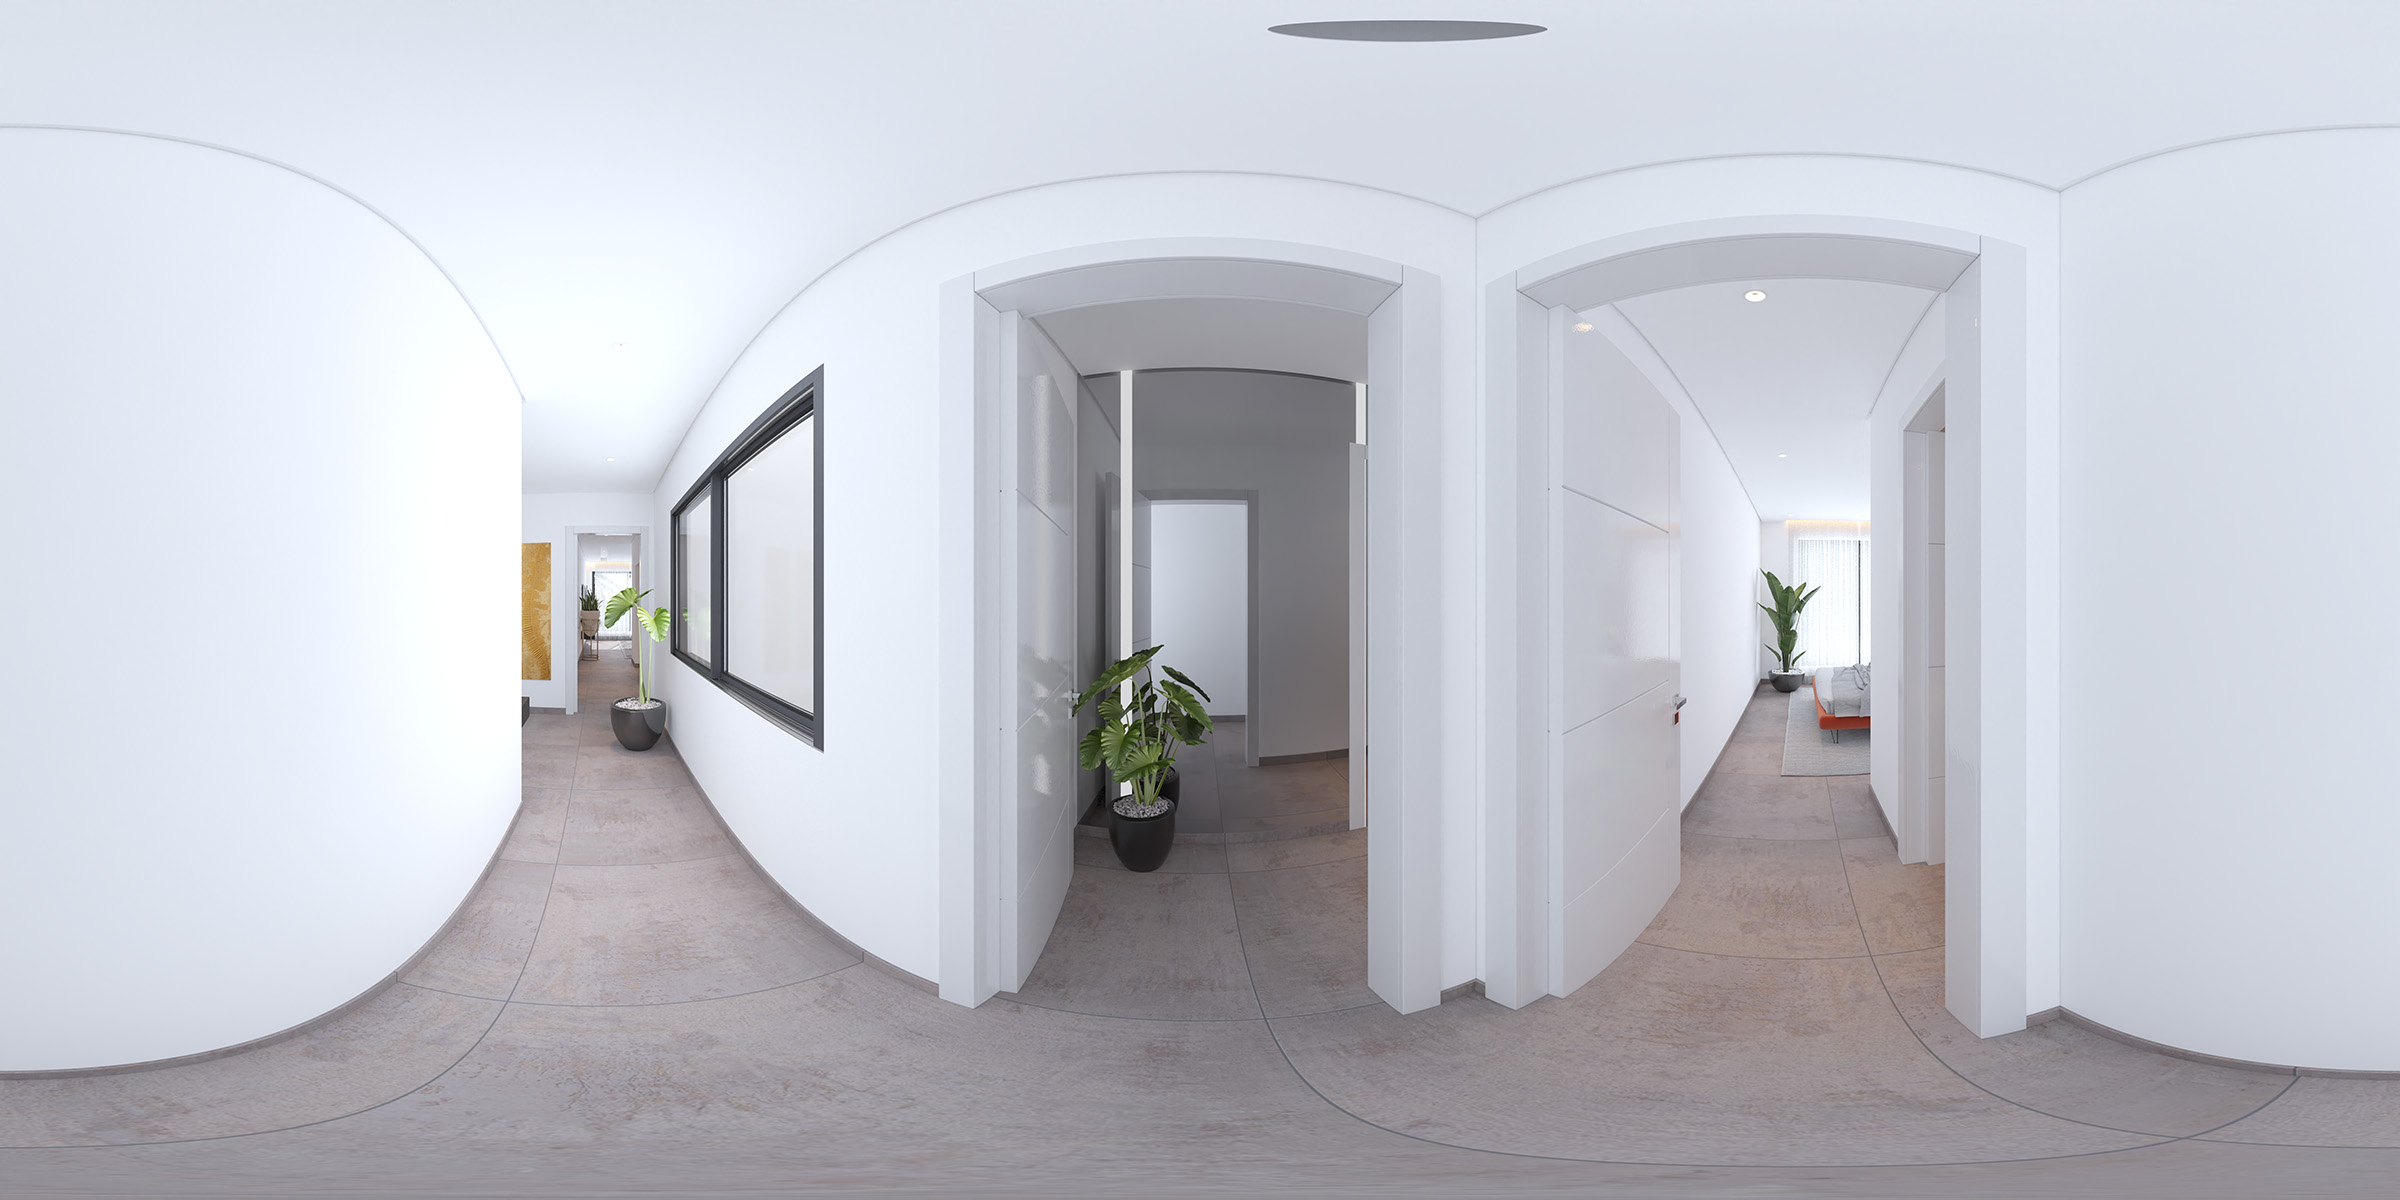
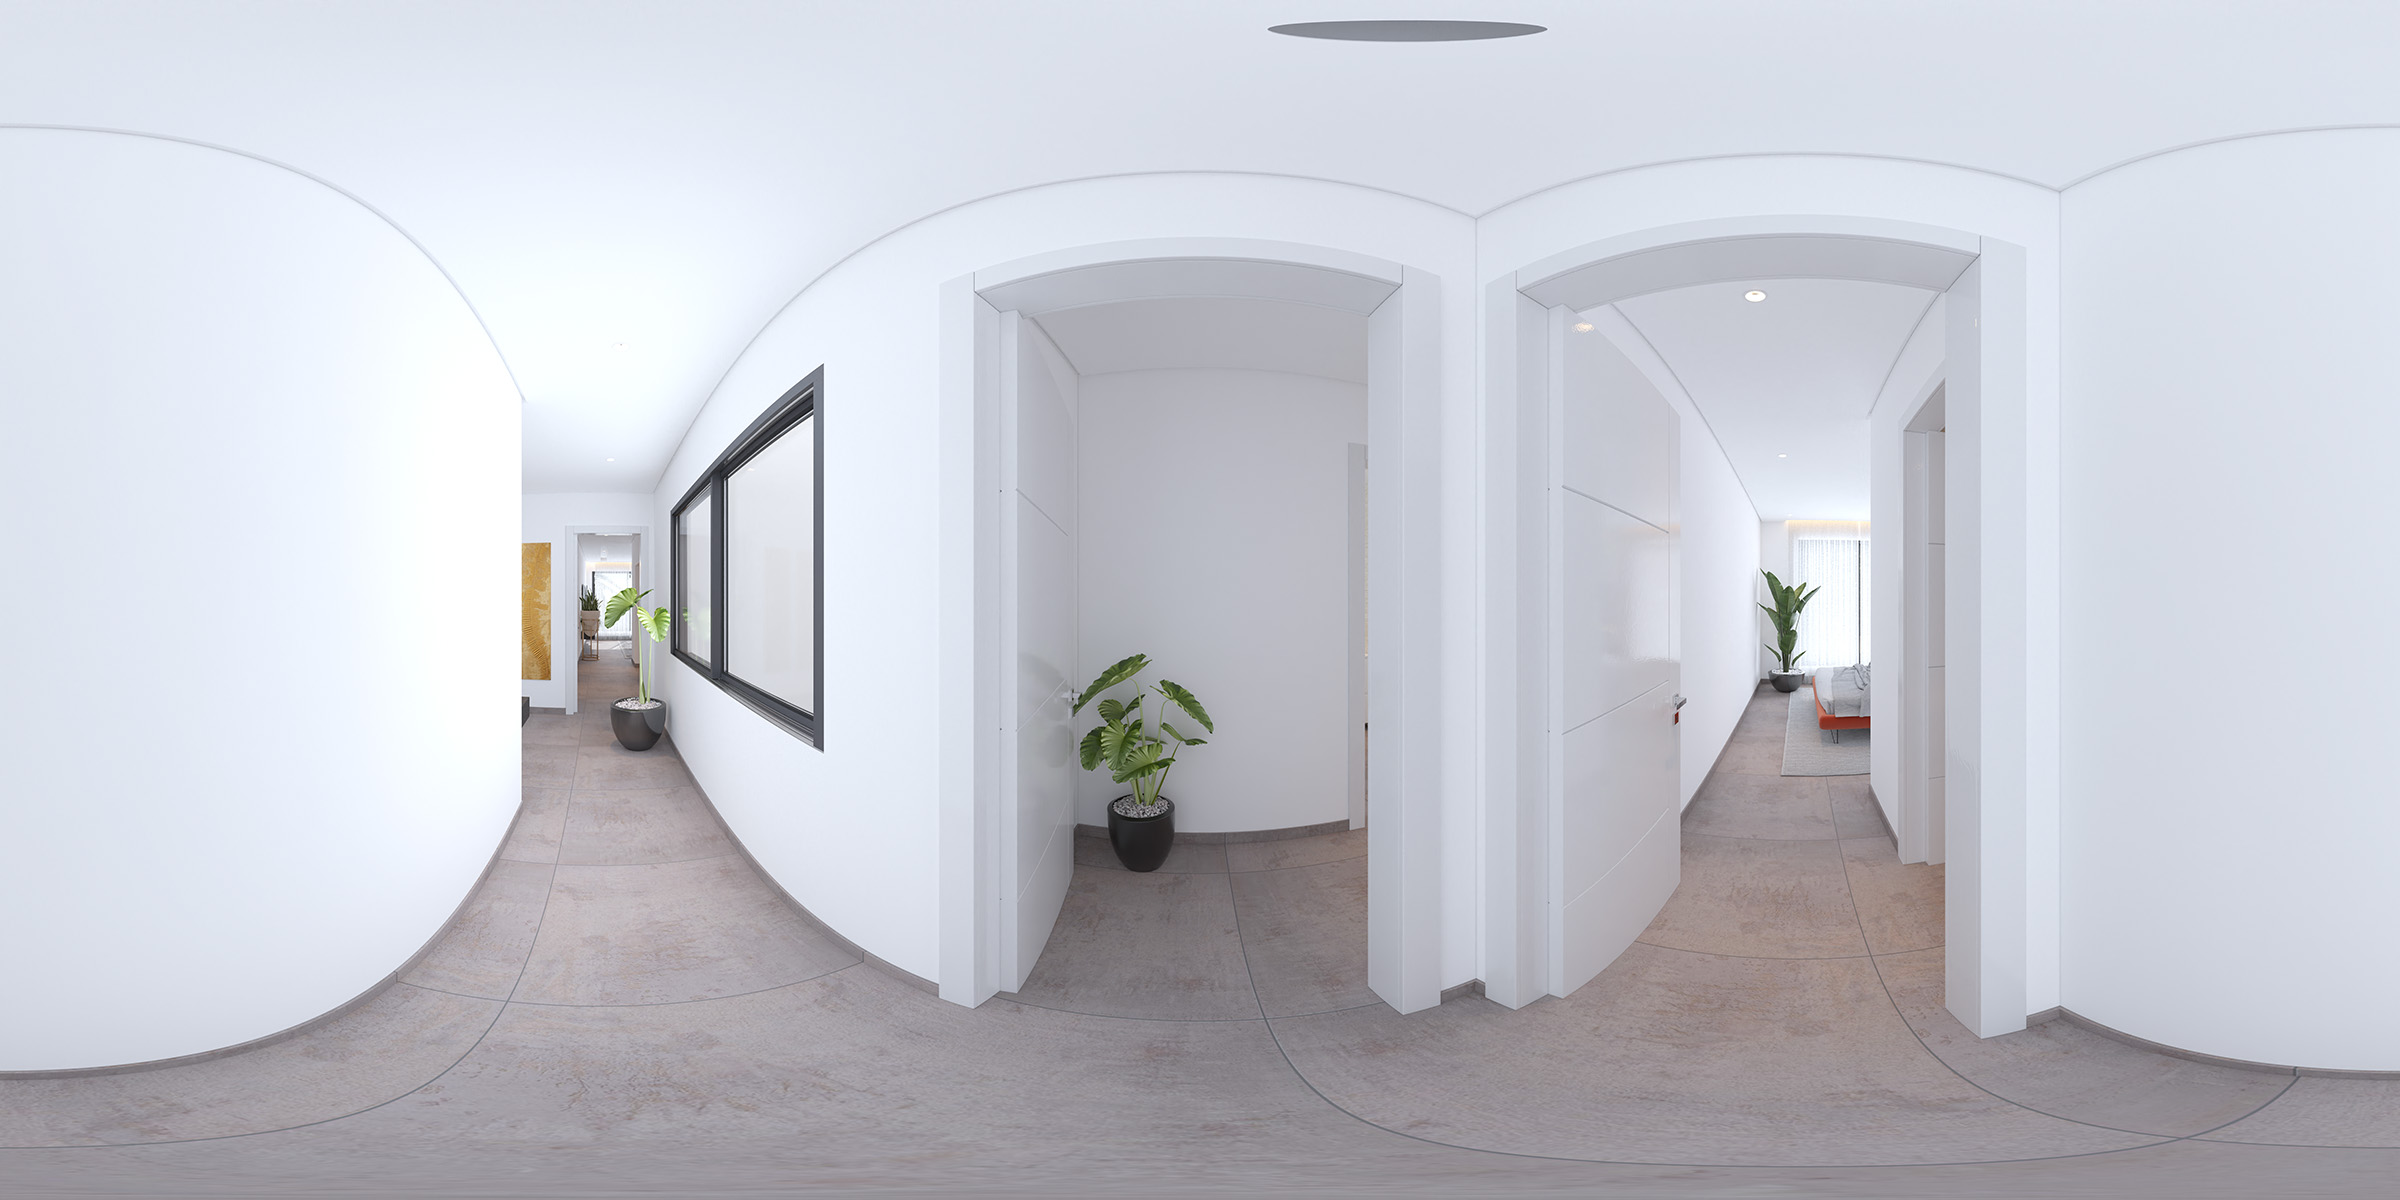
add new image-11

Changed region(s): [[0.4375, 0.2775, 0.5938, 0.7092]]

diff --git a/index.html b/index.html
@@ -70,6 +70,7 @@
             <img id="Scene-20" src="./Style/Images/Scene-20.jpg">
             <img id="Scene-21" src="./Style/Images/Scene-21.jpg">
             <img id="Scene-22" src="./Style/Images/Scene-22.jpg">
+            <img id="Scene-23" src="./Style/Images/Scene-23.jpg">
         </a-assets>
 
         <a-entity laser-controls="hand: left"
@@ -122,8 +123,6 @@
                 the_dote="Name_of_dote: Dote-13 ; Group_to_activate: Group-13 ; The_rotation: 0">
             </a-plane>
 
-
-
         </a-entity>
         <!-- Group-2. -->
         <a-entity scale="0 0 0" rotation="0 -90 0" class="groups" id="Group-2" visible="false">
@@ -133,7 +132,6 @@
                 material="src: #Arrow-1; transparent:true"
                 the_dote="Name_of_dote: Dote-0  ; Group_to_activate: Group-0 ; The_rotation: 0">
             </a-plane>
-
 
             <a-plane data-clickable scale='0.9 0.9 0.9' opacity='.5' class="pintings clickable"
                 position="-0.01334 -1.27619 -4.44077"
@@ -156,8 +154,6 @@
                 material="src: #Arrow-1; transparent:true"
                 the_dote="Name_of_dote: Dote-4  ; Group_to_activate: Group-4 ; The_rotation: 0">
             </a-plane>
-
-
 
         </a-entity>
         <!-- Group-4. -->
@@ -196,7 +192,6 @@
                 the_dote="Name_of_dote: Dote-7  ; Group_to_activate: Group-7 ; The_rotation: 0">
             </a-plane>
 
-
         </a-entity>
         <!-- Group-6 -->
         <a-entity scale="0 0 0" rotation="0 -90 0" class="groups" id="Group-6" visible="false">
@@ -212,7 +207,6 @@
                 material="src: #Arrow-1; transparent:true"
                 the_dote="Name_of_dote: Dote-9  ; Group_to_activate: Group-9 ; The_rotation: 0">
             </a-plane>
-
 
         </a-entity>
 
@@ -267,7 +261,6 @@
                 the_dote="Name_of_dote: Dote-9 ; Group_to_activate: Group-9 ; The_rotation: 0">
             </a-plane>
 
-
             <a-plane data-clickable scale='0.9 0.9 0.9' opacity='.5' class="pintings clickable"
                 position="0.3819 -1.02214 -4.1374" rotation="-85.78438700257712 -56.38477661882431 -33.06825914597547"
                 material="src: #Arrow-1; transparent:true"
@@ -290,8 +283,6 @@
                 the_dote="Name_of_dote: Dote-12; Group_to_activate: Group-12; The_rotation: 0">
             </a-plane>
 
-
-
         </a-entity>
         <!-- Group-12 -->
         <a-entity scale="0 0 0" rotation="0 -90 0" class="groups" id="Group-12" visible="false">
@@ -308,7 +299,6 @@
             </a-plane>
 
         </a-entity>
-
         <!-- Group-13 -->
         <a-entity scale="0 0 0" rotation="0 -90 0" class="groups" id="Group-13" visible="false">
 
@@ -330,10 +320,6 @@
                 the_dote="Name_of_dote: Dote-21; Group_to_activate: Group-21; The_rotation: 0">
             </a-plane>
 
-
-
-
-
         </a-entity>
         <!-- Group-14 -->
         <a-entity scale="0 0 0" rotation="0 -90 0" class="groups" id="Group-14" visible="false">
@@ -349,17 +335,11 @@
                 the_dote="Name_of_dote: Dote-15; Group_to_activate: Group-15; The_rotation: 0">
             </a-plane>
 
-
-
             <a-plane data-clickable scale='0.9 0.9 0.9' opacity='.5' class="pintings clickable"
                 position="0.05942 -1.64782 4.53459" rotation="-88.37472919436357 -157.13482123021856 68.38595059563455"
                 material="src: #Arrow-1; transparent:true"
                 the_dote="Name_of_dote: Dote-16; Group_to_activate: Group-16; The_rotation: 0">
             </a-plane>
-
-
-
-
 
         </a-entity>
         <!-- Group-15 -->
@@ -370,8 +350,6 @@
                 material="src: #Arrow-1; transparent:true"
                 the_dote="Name_of_dote: Dote-14; Group_to_activate: Group-14; The_rotation: 0">
             </a-plane>
-
-
 
         </a-entity>
         <!-- Group-16 -->
@@ -396,10 +374,7 @@
                 the_dote="Name_of_dote: Dote-18; Group_to_activate: Group-18; The_rotation: 0">
             </a-plane>
 
-
-
         </a-entity>
-
         <!-- Group-17 -->
         <a-entity scale="0 0 0" rotation="0 -90 0" class="groups" id="Group-17" visible="false">
 
@@ -408,8 +383,6 @@
                 material="src: #Arrow-1; transparent:true"
                 the_dote="Name_of_dote: Dote-16; Group_to_activate: Group-16; The_rotation: 0">
             </a-plane>
-
-
 
         </a-entity>
         <!-- Group-18 -->
@@ -427,8 +400,6 @@
                 the_dote="Name_of_dote: Dote-19; Group_to_activate: Group-19; The_rotation: 0">
             </a-plane>
 
-
-
         </a-entity>
         <!-- Group-19 -->
         <a-entity scale="0 0 0" rotation="0 -90 0" class="groups" id="Group-19" visible="false">
@@ -444,8 +415,6 @@
                 the_dote="Name_of_dote: Dote-20; Group_to_activate: Group-20; The_rotation: 0">
             </a-plane>
 
-
-
         </a-entity>
         <!-- Group-20 -->
         <a-entity scale="0 0 0" rotation="0 -90 0" class="groups" id="Group-20" visible="false">
@@ -456,8 +425,6 @@
                 material="src: #Arrow-1; transparent:true"
                 the_dote="Name_of_dote: Dote-19; Group_to_activate: Group-19; The_rotation: 0">
             </a-plane>
-
-
 
         </a-entity>
         <!-- Group-21 -->
@@ -474,8 +441,6 @@
                 the_dote="Name_of_dote: Dote-22; Group_to_activate: Group-22; The_rotation: 0">
             </a-plane>
 
-
-
         </a-entity>
         <!-- Group-22 -->
         <a-entity scale="0 0 0" rotation="0 -90 0" class="groups" id="Group-22" visible="false">
@@ -486,10 +451,24 @@
                 the_dote="Name_of_dote: Dote-21; Group_to_activate: Group-21; The_rotation: 0">
             </a-plane>
 
+            <a-plane data-clickable scale='0.9 0.9 0.9' opacity='.5' class="pintings clickable"
+                position="-3.42584 -2.48666 -0.60839"
+                rotation="-66.38231718606205 87.13656739908586 -176.99124657827235"
+                material="src: #Arrow-1; transparent:true"
+                the_dote="Name_of_dote: Dote-23; Group_to_activate: Group-23; The_rotation: 0">
+            </a-plane>
 
         </a-entity>
+        <!-- Group-23 -->
+        <a-entity scale="0 0 0" rotation="0 -90 0" class="groups" id="Group-23" visible="false">
 
+            <a-plane data-clickable scale='0.9 0.9 0.9' opacity='.5' class="pintings clickable"
+                position="2.45945 -1.88178 -0.00559" rotation="-75.82638052320341 -74.5137342145587 -13.512636640365335"
+                material="src: #Arrow-1; transparent:true"
+                the_dote="Name_of_dote: Dote-22; Group_to_activate: Group-22; The_rotation: 0">
+            </a-plane>
 
+        </a-entity>
 
         <!-- ############################################################ -->
         <!-- ############################################################ -->
@@ -618,6 +597,9 @@
                                 break;
                             case 'Dote-22':
                                 the_sky.setAttribute('src', '#Scene-22')
+                                break;
+                            case 'Dote-23':
+                                the_sky.setAttribute('src', '#Scene-23')
                                 break;
                             default:
                                 break;

diff --git a/Style/Style.scss b/Style/Style.scss
@@ -170,7 +170,7 @@ html {
     background-image: url('./Images/PNG/favicon.png');
     background-repeat: no-repeat;
     background-size: 100%;
-
+    -webkit-user-select: none;
 
     &:hover {
         transform: scale(1.1);

diff --git a/Style/Style.css b/Style/Style.css
@@ -214,6 +214,7 @@ html {
   background-image: url("./Images/PNG/favicon.png");
   background-repeat: no-repeat;
   background-size: 100%;
+  -webkit-user-select: none;
 }
 
 .link_to_archviz:hover {
